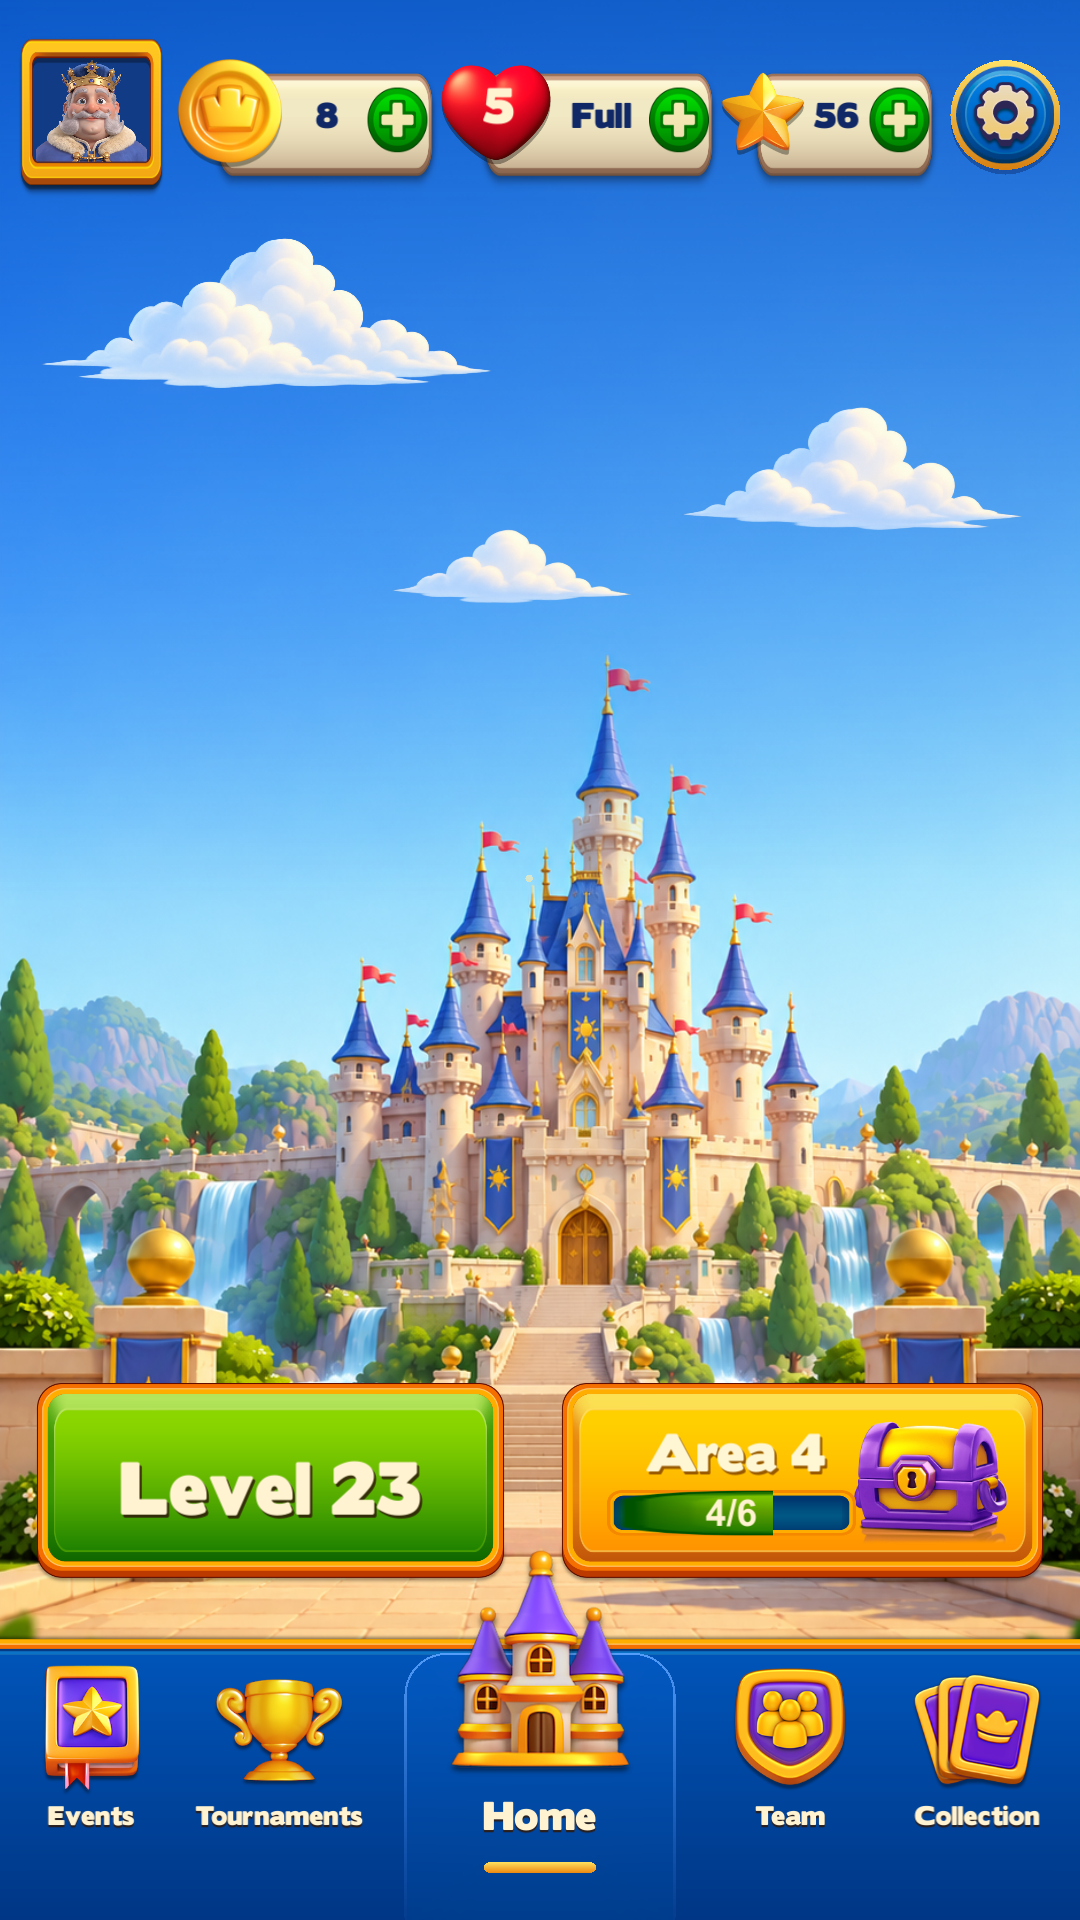
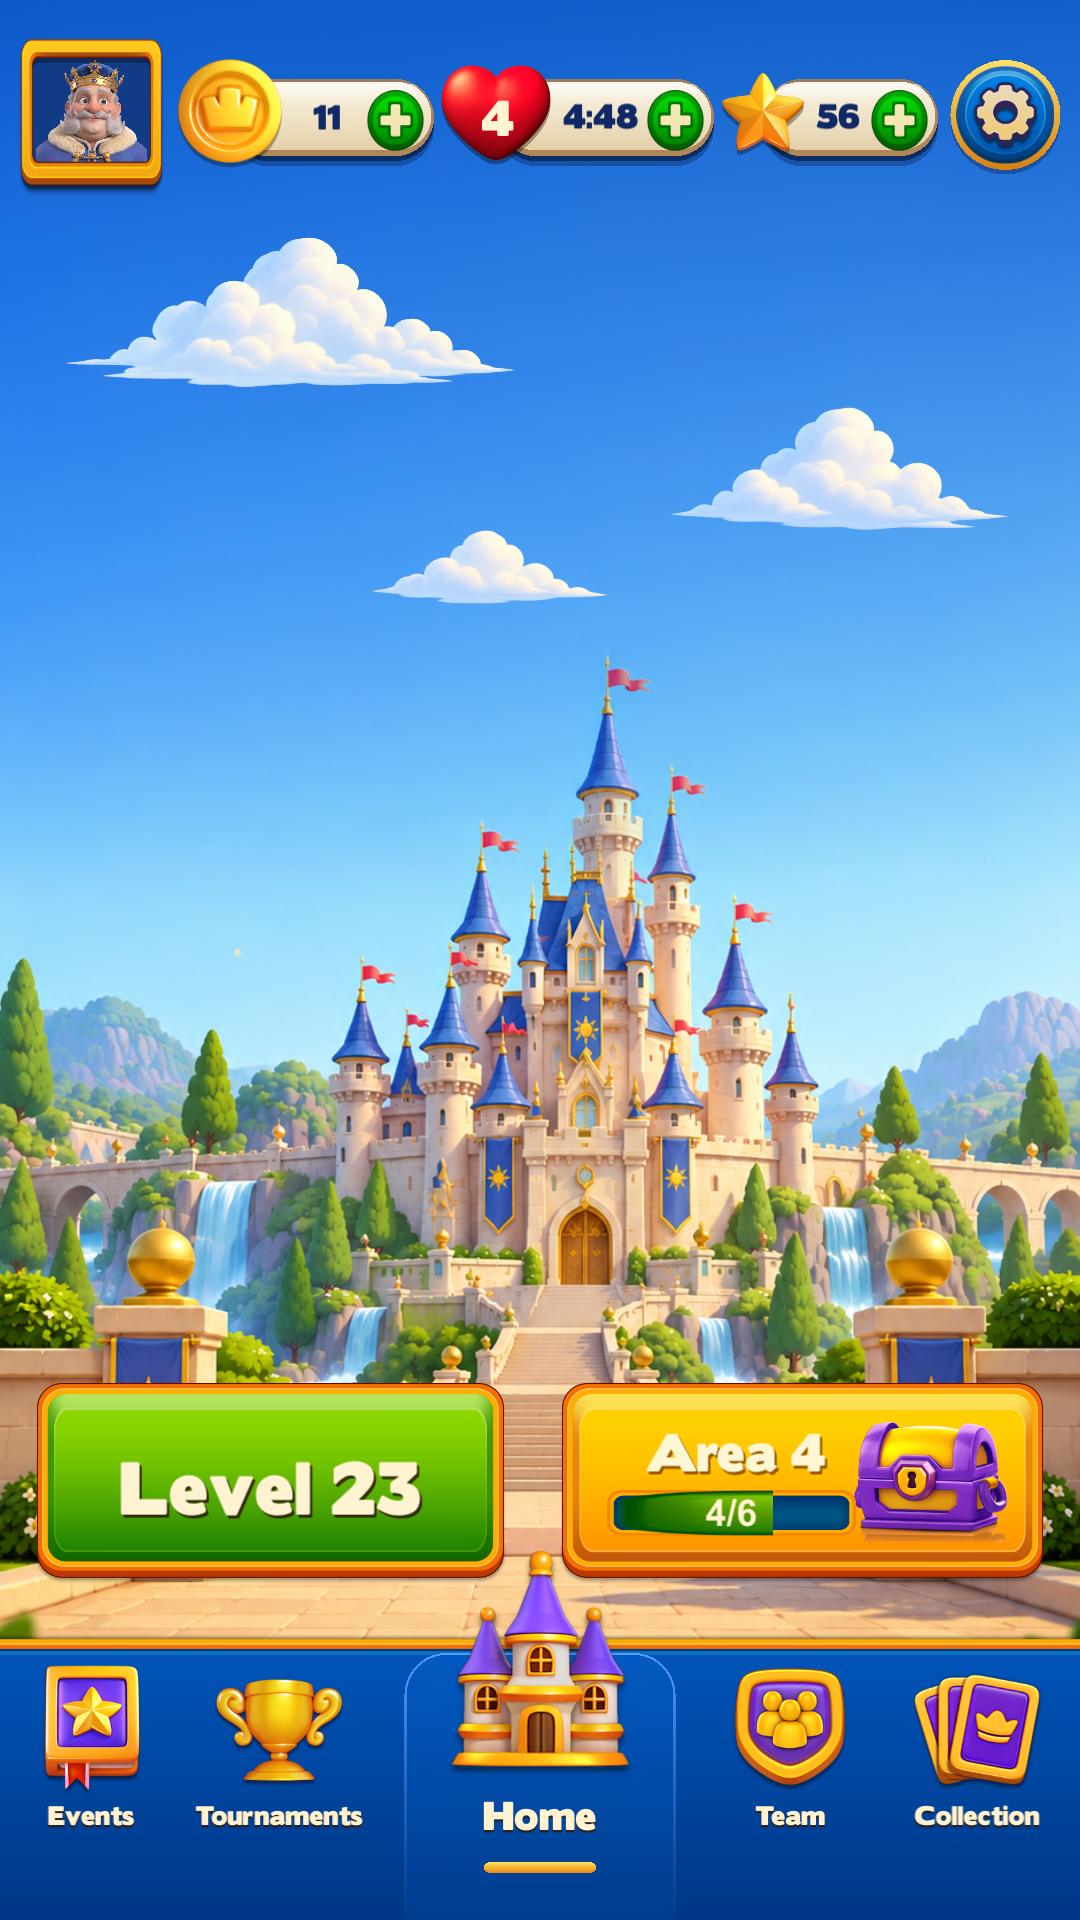
Speed the Home clouds up 1.3x
The user asked for faster cloud drift. A single DriftSpeed multiplier on the
existing periods keeps each cloud's path, bounds and reduced-motion hold.

Verified in Play Mode: all three clouds sit exactly on the 1.3x drift formula
over 6 s; home-sky checks 8/8; real save unchanged.

diff --git a/Assets/ReferenceGameplay/Home/Scripts/ReferenceHomeSky.cs b/Assets/ReferenceGameplay/Home/Scripts/ReferenceHomeSky.cs
@@ -13,6 +13,8 @@ namespace RoyalThrone.ReferenceGameplay
         // and this keeps the clouds where the Home reference shows them.
         readonly Vector2[] seats={new Vector2(.19f,.802f),new Vector2(.80f,.722f),new Vector2(.52f,.672f)};
         readonly float[] periods={170,205,240},amplitudes={.10f,.08f,.11f},phases={0,1.6f,3.1f};
+        // Drift runs 1.3x the periods above (the user's request of 2026-09-27); the path and its bounds are unchanged.
+        const float DriftSpeed=1.3f;
         float elapsed;bool initialized;public int CloudCount=>initialized?3:0;
         public float MotionSeconds=>elapsed;
         public Vector2 CloudPosition(int index)=>clouds[index].anchoredPosition;
@@ -33,7 +35,7 @@ namespace RoyalThrone.ReferenceGameplay
         }
         void LateUpdate(){if(!initialized)return;if(home.IsHomeVisible&&home.MotionEnabled)elapsed+=Time.unscaledDeltaTime;Render();}
         void Render(){float w=sky.rect.width,h=sky.rect.height;
-            for(int i=0;i<3;i++){var r=clouds[i];var art=r.GetComponent<Image>().sprite;float phase=elapsed*Mathf.PI*2/periods[i]+phases[i];
+            for(int i=0;i<3;i++){var r=clouds[i];var art=r.GetComponent<Image>().sprite;float phase=elapsed*DriftSpeed*Mathf.PI*2/periods[i]+phases[i];
                 // Bounded continuous drift has no wrap, teleport, opacity pop or random jitter.
                 float x=seats[i].x+amplitudes[i]*(Mathf.Sin(phase)-Mathf.Sin(phases[i]));
                 float y=seats[i].y+.0025f*(Mathf.Sin(phase*.73f)-Mathf.Sin(phases[i]*.73f));

diff --git a/Design/Branding/HOME-SCREEN.md b/Design/Branding/HOME-SCREEN.md
@@ -40,6 +40,6 @@ The live Home follows the Home reference supplied on 27 September 2026 ([home-re
 - **Level and area cards.** They measure 1014 × 201 px at 1080 wide and sit 436 px above the safe bottom. The area card is slightly wider, and the Home castle's spire rises through the gap between the cards.
 - **Tab bar.** It is 286 px tall, with a deep royal-blue gradient under the imported gold edge. Every tab is named: Events, Tournaments, Home, Team and Collection. The selected tab has a slightly lighter rounded panel, a soft rim, a short gold underline and raised art. Events still opens Royal Journey (level selection) and Tournaments opens Royal Leagues; the panels are unchanged.
 - **Background.** It is never stretched and always covers the screen. It is placed so the card row meets the courtyard at the same point on every aspect ratio. A deep-blue veil over the top 47% of the sky sits behind the clouds.
-- **Motion.** Home controls press to 0.975 and settle in about 0.15 s, with no growth on hover or focus. The + badges swell softly for 0.6 s every 7 s, and the selected tab's rim and underline breathe over 2.8 s. The Motion setting stops both.
+- **Motion.** Home controls press to 0.975 and settle in about 0.15 s, with no growth on hover or focus. The + badges swell softly for 0.6 s every 7 s, and the selected tab's rim and underline breathe over 2.8 s. The clouds drift 1.3x their original speed (`ReferenceHomeSky.DriftSpeed`) on the same path. The Motion setting stops all three.
 
 `RoyalHomeScreen.RefreshLayout` now applies the reference layout at once, so the Home checks' overlap and tap tests read the layout that is drawn. Before this they read the builder's fallback placement, which is replaced every frame. Verified with the Home checks (167 each) at 720 × 1280, 1080 × 1920, 1080 × 2160 and 1440 × 2960, the home-sky and home-finish suites, and Device Simulator notch and punch-hole devices.
